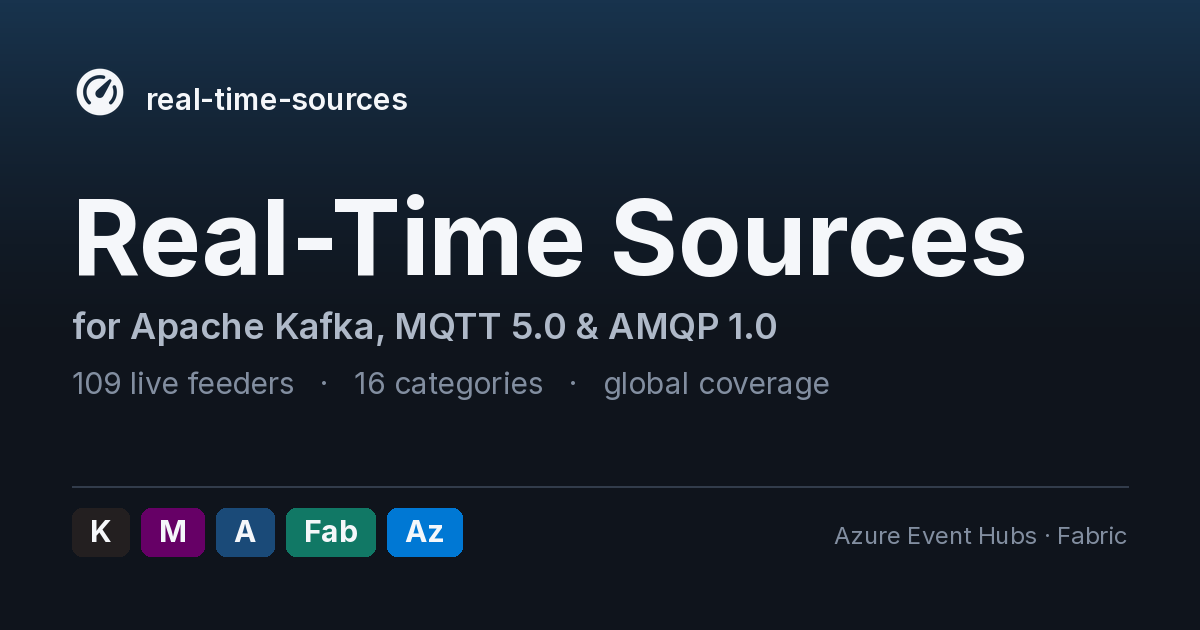
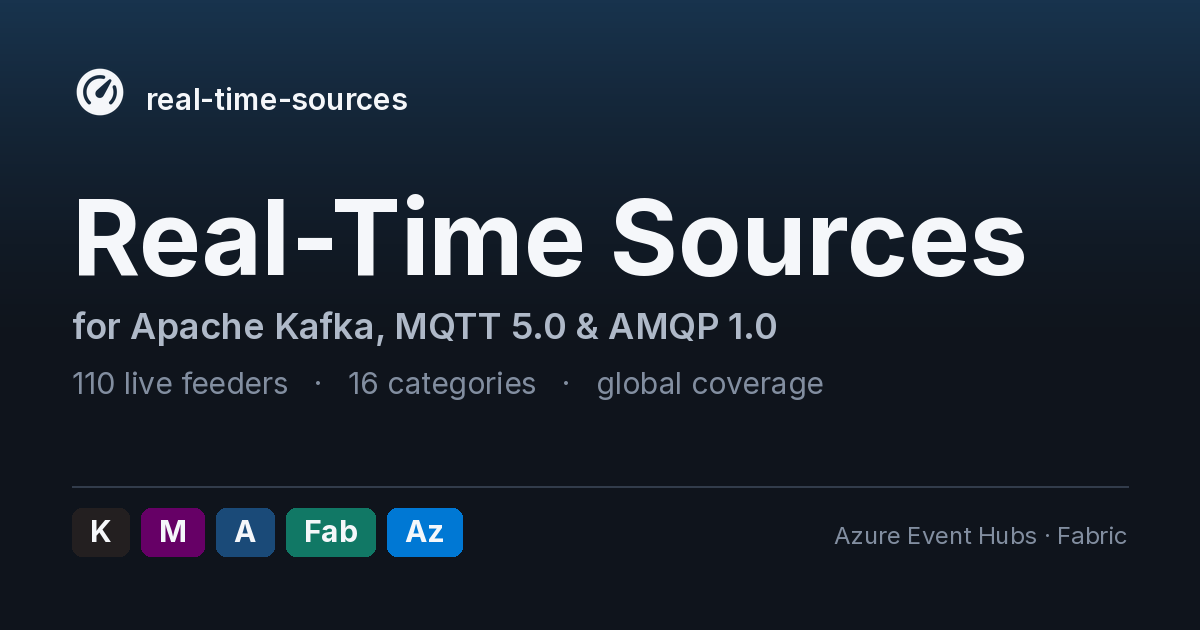
Sync catalog and share pages from main

Changed region(s): [[0.4933, 0.573, 0.7092, 0.6333], [0.0617, 0.573, 0.2467, 0.6333], [0.2775, 0.573, 0.4625, 0.6333]]

diff --git a/share/cap-alerts/index.html b/share/cap-alerts/index.html
@@ -1,0 +1,99 @@
+<!DOCTYPE html>
+<html lang="en">
+<head>
+<meta charset="UTF-8">
+<meta name="viewport" content="width=device-width, initial-scale=1.0">
+<title>CAP Alerts — real-time-sources</title>
+<meta name="description" content="Weather — Global — configurable CAP 1.2 public alerts">
+
+<!-- Canonical points at the SPA route, not this redirect shell. -->
+<link rel="canonical" href="https://clemensv.github.io/real-time-sources/#cap-alerts">
+
+<!-- Open Graph -->
+<meta property="og:type" content="website">
+<meta property="og:site_name" content="real-time-sources">
+<meta property="og:title" content="CAP Alerts">
+<meta property="og:description" content="Weather — Global — configurable CAP 1.2 public alerts">
+<meta property="og:url" content="https://clemensv.github.io/real-time-sources/share/cap-alerts/">
+<meta property="og:image" content="https://clemensv.github.io/real-time-sources/share/cap-alerts/og.png">
+<meta property="og:image:secure_url" content="https://clemensv.github.io/real-time-sources/share/cap-alerts/og.png">
+<meta property="og:image:type" content="image/png">
+<meta property="og:image:width" content="1200">
+<meta property="og:image:height" content="630">
+<meta property="og:image:alt" content="CAP Alerts — Weather — Global — configurable CAP 1.2 public alerts">
+<meta property="og:locale" content="en_US">
+
+<!-- Twitter / X Card -->
+<meta name="twitter:card" content="summary_large_image">
+<meta name="twitter:title" content="CAP Alerts">
+<meta name="twitter:description" content="Weather — Global — configurable CAP 1.2 public alerts">
+<meta name="twitter:image" content="https://clemensv.github.io/real-time-sources/share/cap-alerts/og.png">
+<meta name="twitter:image:alt" content="CAP Alerts — Weather — Global — configurable CAP 1.2 public alerts">
+
+<!-- JSON-LD: Dataset descriptor for search engines -->
+<script type="application/ld+json">
+{
+  "@context": "https://schema.org",
+  "@type": "Dataset",
+  "name": "CAP Alerts",
+  "description": "Weather — Global — configurable CAP 1.2 public alerts",
+  "url": "https://clemensv.github.io/real-time-sources/#cap-alerts",
+  "image": "https://clemensv.github.io/real-time-sources/share/cap-alerts/og.png",
+  "isAccessibleForFree": true,
+  "license": "https://www.apache.org/licenses/LICENSE-2.0",
+  "keywords": "Apache Kafka, real-time data, MQTT 5.0, AMQP 1.0, Microsoft Fabric, Weather",
+  "creator": {
+    "@type": "Organization",
+    "name": "real-time-sources",
+    "url": "https://github.com/clemensv/real-time-sources"
+  }
+}
+</script>
+
+<!-- Pre-fetch the SPA so the redirect feels instant -->
+<link rel="preload" as="fetch" href="https://clemensv.github.io/real-time-sources/catalog.json" crossorigin>
+
+<!-- Crawler-friendly redirect: humans get an immediate refresh + JS hop.
+     Crawlers ignore the refresh and just consume the OG meta above. -->
+<meta http-equiv="refresh" content="0; url=https://clemensv.github.io/real-time-sources/#cap-alerts">
+
+<style>
+  :root { color-scheme: light dark; }
+  body {
+    font: 16px/1.5 -apple-system, BlinkMacSystemFont, "Segoe UI", Inter, system-ui, sans-serif;
+    margin: 0; padding: 48px 24px; min-height: 100vh;
+    display: flex; align-items: center; justify-content: center;
+    background: #0f141c; color: #e5eaf0;
+    text-align: center;
+  }
+  .card { max-width: 720px; }
+  .card img.preview {
+    width: 100%; max-width: 720px; height: auto;
+    border-radius: 12px; box-shadow: 0 8px 32px rgba(0,0,0,.35);
+    margin-bottom: 24px;
+  }
+  h1 { font-size: 28px; margin: 0 0 8px; font-weight: 700; }
+  p { color: #afb9c8; margin: 8px 0; }
+  a.cta {
+    display: inline-block; margin-top: 24px;
+    padding: 12px 24px; border-radius: 8px;
+    background: #0078d4; color: #fff; text-decoration: none; font-weight: 600;
+  }
+  a.cta:hover { background: #106ebe; }
+  .meta { color: #6c7889; font-size: 14px; margin-top: 32px; }
+</style>
+</head>
+<body>
+<main class="card">
+  <img class="preview" src="og.png" alt="CAP Alerts — Weather — Global — configurable CAP 1.2 public alerts" width="1200" height="630">
+  <h1>CAP Alerts</h1>
+  <p>Weather — Global — configurable CAP 1.2 public alerts</p>
+  <a class="cta" href="https://clemensv.github.io/real-time-sources/#cap-alerts">Open in real-time-sources&nbsp;→</a>
+  <p class="meta">Redirecting&hellip; if nothing happens, click the button above.</p>
+</main>
+<script>
+  // Replace this URL in history so back-button goes to wherever the user came from.
+  location.replace("https://clemensv.github.io/real-time-sources/#cap-alerts");
+</script>
+</body>
+</html>

diff --git a/share/index.html b/share/index.html
@@ -12,7 +12,7 @@
 </style></head>
 <body>
 <h1>Per-source share landing pages</h1>
-<p class="head">109 sources. Each URL is the canonical share target for
+<p class="head">110 sources. Each URL is the canonical share target for
   cards on X, LinkedIn, Slack, Discord, FB, Mastodon, Bluesky and Teams. Humans
   are redirected to <code>https://clemensv.github.io/real-time-sources/#&lt;source-id&gt;</code>.</p>
 <ul>
@@ -28,6 +28,7 @@
 <li><a href="bom-australia/">BOM Australia</a> — <span style="color:#8590a0">Australia — ~8 capital city airports, half-hourly obs</span></li>
 <li><a href="canada-aqhi/">Canada AQHI</a> — <span style="color:#8590a0">Canada — community AQHI observations and forecasts</span></li>
 <li><a href="canada-eccc-wateroffice/">Canada ECCC Water Office</a> — <span style="color:#8590a0">Canada — ~2,100 hydrometric stations, ECCC/WSC</span></li>
+<li><a href="cap-alerts/">CAP Alerts</a> — <span style="color:#8590a0">Global — configurable CAP 1.2 public alerts</span></li>
 <li><a href="carbon-intensity/">Carbon Intensity UK</a> — <span style="color:#8590a0">United Kingdom — national grid carbon intensity</span></li>
 <li><a href="cbp-border-wait/">US CBP Border Wait</a> — <span style="color:#8590a0">US borders — ~81 ports of entry</span></li>
 <li><a href="cdec-reservoirs/">CDEC Reservoirs</a> — <span style="color:#8590a0">California — ~2,600 stations, DWR</span></li>

diff --git a/app.js b/app.js
@@ -37,6 +37,7 @@ const SOURCES = [
   { id: "aviationweather", name: "AviationWeather.gov", cat: "Weather", key: false, desc: "Global — METAR, SIGMET advisories", notebook: true, mqtt: true, amqp: true },
   { id: "blitzortung", name: "Blitzortung", cat: "Weather", key: false, desc: "Global — community lightning strokes, seconds latency", mqtt: true, amqp: true },
   { id: "bom-australia", name: "BOM Australia", cat: "Weather", key: false, desc: "Australia — ~8 capital city airports, half-hourly obs", notebook: true, mqtt: true, amqp: true },
+  { id: "cap-alerts", name: "CAP Alerts", cat: "Weather", key: false, desc: "Global — configurable CAP 1.2 public alerts", notebook: true, mqtt: true, amqp: true },
   { id: "dwd", name: "DWD", cat: "Weather", key: false, desc: "Germany — ~1,450 stations, observations and CAP alerts", mqtt: true, amqp: true },
   { id: "dwd-pollenflug", name: "DWD Pollenflug", cat: "Weather", key: false, desc: "Germany — daily pollen forecasts, 27 regions", notebook: true, mqtt: true, amqp: true },
   { id: "dmi", name: "DMI Denmark", cat: "Weather", key: true, desc: "Denmark — Danish Meteorological Institute observations", notebook: true, mqtt: true, amqp: true },
